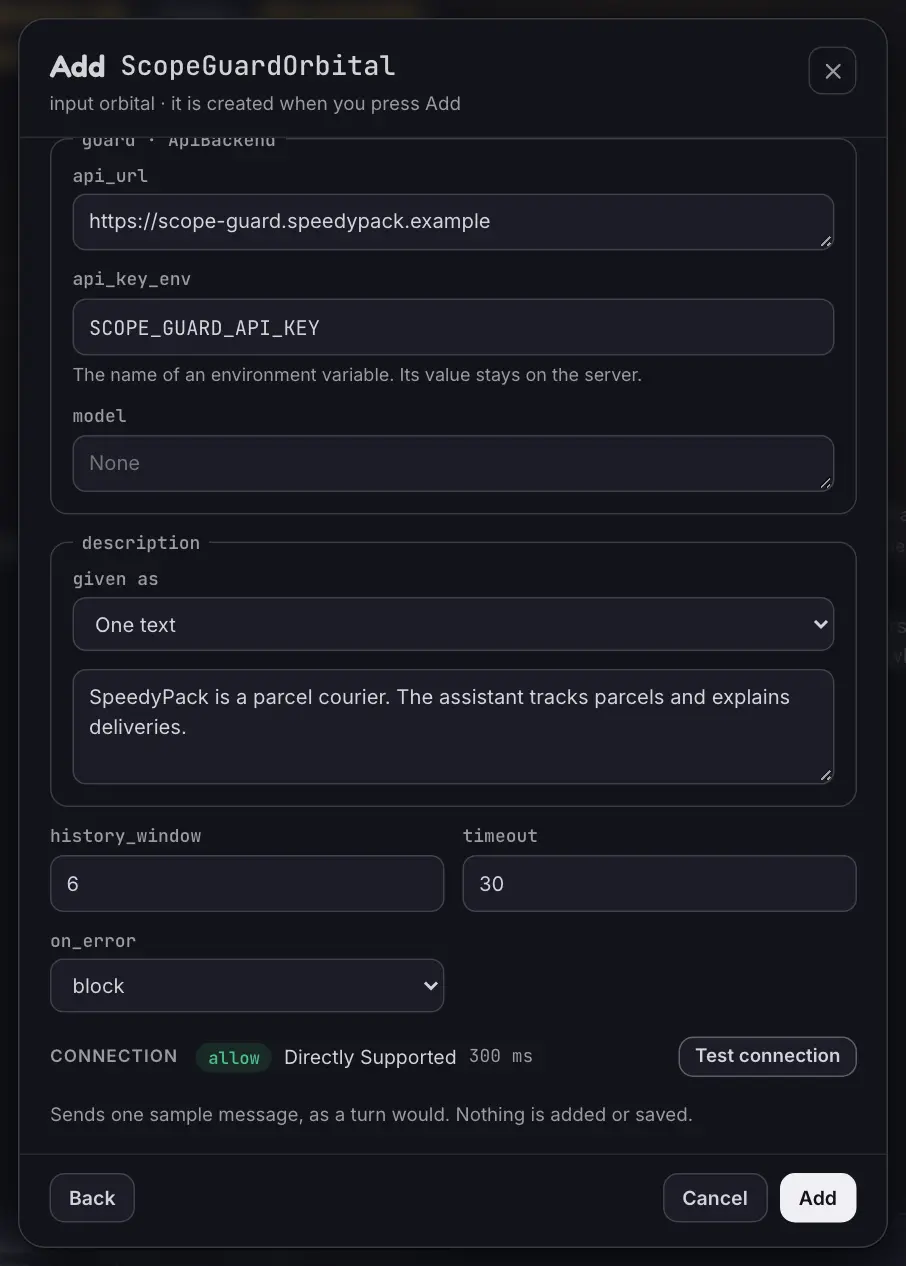
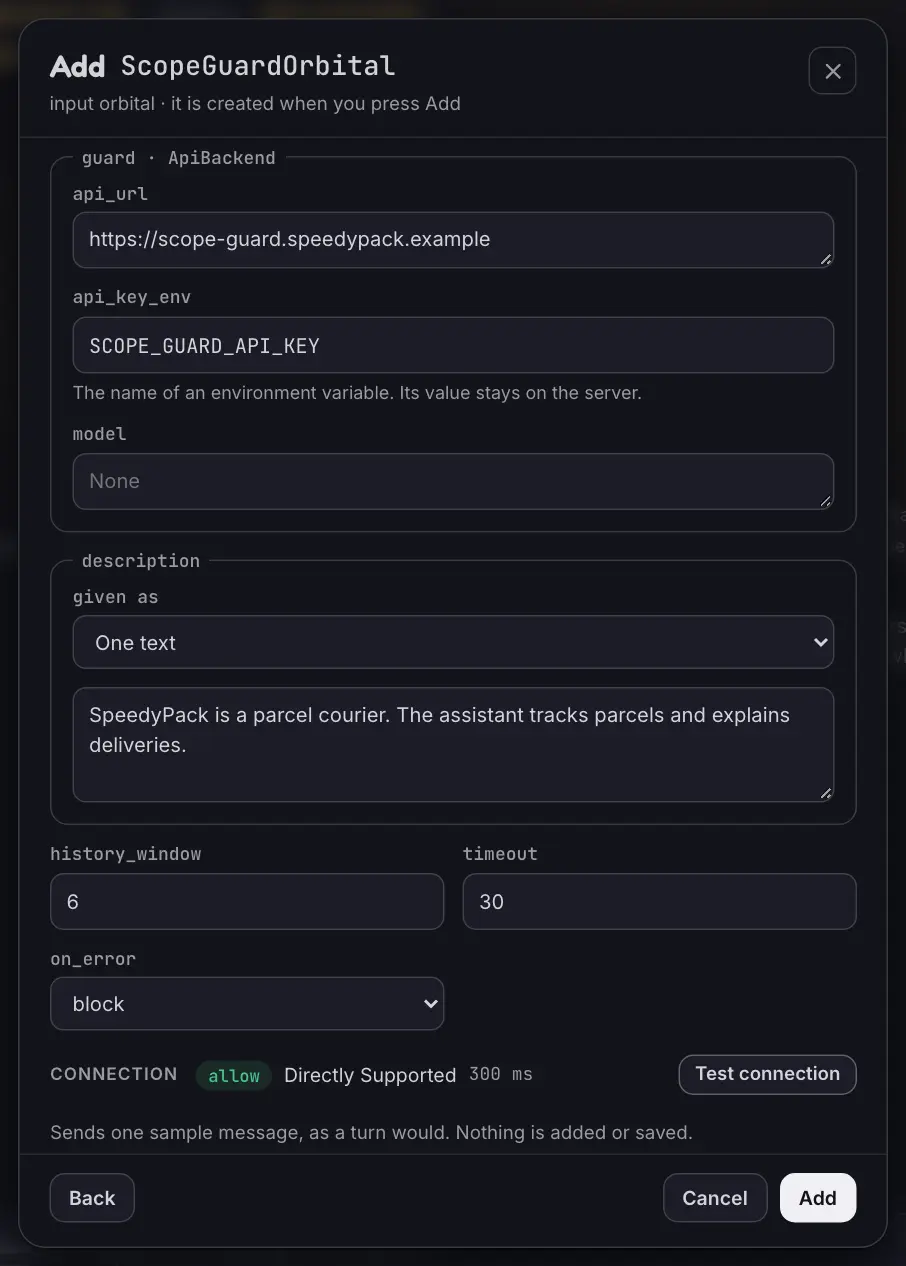
FIX: Refine three scenes of the screenshots after the review
The card of an orbital showed the focus on the field after the one
that was changed, because the scene left the field with Tab: it now
applies the value with Enter. The form that adds an orbital, longer
than a card can be, showed its first block cut in half: it is scrolled
to where that block begins, which cuts no line and keeps the result of
the test in view. The four images of the two scenes are written again.

The waits of the fake models sat where a machine 50 ms slower would
have changed the durations the images show. They are now just above the
lower edge of a tenth of a second, which leaves 90 ms.

diff --git a/tests/studio/test_screenshots.py b/tests/studio/test_screenshots.py
@@ -112,6 +112,12 @@ REFUSAL = "I can only help with SpeedyPack parcels and deliveries."
 PROJECT = "/home/ada/speedypack"
 SCOPE_GUARD_URL = "https://scope-guard.speedypack.example"
 SCOPE_GUARD_KEY = "SCOPE_GUARD_API_KEY"
+# What a check and the nucleus take. A measured time is never shorter than its wait and
+# the camera rounds it to a tenth of a second: a wait just above the lower edge of a
+# tenth leaves the most room for a slow machine. A check is shown as 300 ms until it
+# takes 90 ms more than its wait, and a turn, two checks and the nucleus, as 1.3 s.
+CHECK_WAIT = 0.26
+NUCLEUS_WAIT = 0.74
 
 
 def _text(messages: list[ModelMessage]) -> str:
@@ -131,13 +137,13 @@ async def nucleus(messages: list[ModelMessage], info: AgentInfo) -> ModelRespons
     A blocked message does not reach the nucleus: what is not the question about
     Saturday is the request it is guided to refuse.
     """
-    await asyncio.sleep(0.66)
+    await asyncio.sleep(NUCLEUS_WAIT)
     return ModelResponse(parts=[TextPart(CLOSED if "Saturday" in _text(messages) else REFUSAL)])
 
 
 async def judge(messages: list[ModelMessage], info: AgentInfo) -> ModelResponse:
     """Decide as the judges of the atom would: a request for a poem is out of scope."""
-    await asyncio.sleep(0.3)
+    await asyncio.sleep(CHECK_WAIT)
     reviewed = _text(messages).split("<text_under_review>")[-1]
     decision: dict[str, str] = {"action": "allow", "reason": "in scope"}
     if "poem" in reviewed:
@@ -234,7 +240,8 @@ def test_orbital_card(camera: Camera, studio: Studio):
     open_card(page, "message_length")
     words = card(page).get_by_label("max_words")
     words.fill("40")
-    words.press("Tab")
+    # Enter applies the value and leaves the focus on the field that changed.
+    words.press("Enter")
     expect(page.locator("#changes-text")).to_have_text("1 change vs code")
     camera.shoot("orbital-card", card(page))
 
@@ -244,7 +251,8 @@ def test_copy_as_code(camera: Camera, studio: Studio):
     open_card(page, "message_length")
     words = card(page).get_by_label("max_words")
     words.fill("40")
-    words.press("Tab")
+    # Enter applies the value and leaves the focus on the field that changed.
+    words.press("Enter")
     expect(page.locator("#changes-text")).to_have_text("1 change vs code")
     card(page).get_by_role("button", name="Done").click()
     page.get_by_role("button", name="Copy as code").click()
@@ -267,7 +275,7 @@ def test_save_as_test(camera: Camera, tmp_path, monkeypatch):
 def test_add_orbital(camera: Camera, studio: Studio, service: FakeService, monkeypatch):
     monkeypatch.setenv(SCOPE_GUARD_KEY, "a-key-that-never-reaches-the-page")
     service.key = "a-key-that-never-reaches-the-page"
-    service.delay = 0.3
+    service.delay = CHECK_WAIT
     page = opened(camera, studio)
     page.locator('#drawer [data-act="add"][data-side="input"]').click()
     card(page).get_by_role("button", name="ScopeGuardOrbital").click()
@@ -282,4 +290,15 @@ def test_add_orbital(camera: Camera, studio: Studio, service: FakeService, monke
     # The fake service listens on a port the system chose: the image shows an address
     # a reader could have.
     reword(page, service.url, SCOPE_GUARD_URL)
+    # The form is longer than a card can be. It is scrolled to where its first block
+    # begins: no line is cut in half, and the result of the test stays in view.
+    block_of(page, "guard").locator("legend").evaluate(
+        """legend => {
+          const body = legend.closest(".dlg-body");
+          const above = legend.getBoundingClientRect().top - body.getBoundingClientRect().top;
+          body.scrollTop += above - 6;
+        }"""
+    )
+    expect(block_of(page, "guard").locator("legend")).to_be_in_viewport(ratio=1)
+    expect(card(page).locator("p.hint")).to_be_in_viewport(ratio=1)
     camera.shoot("add-orbital", card(page))
